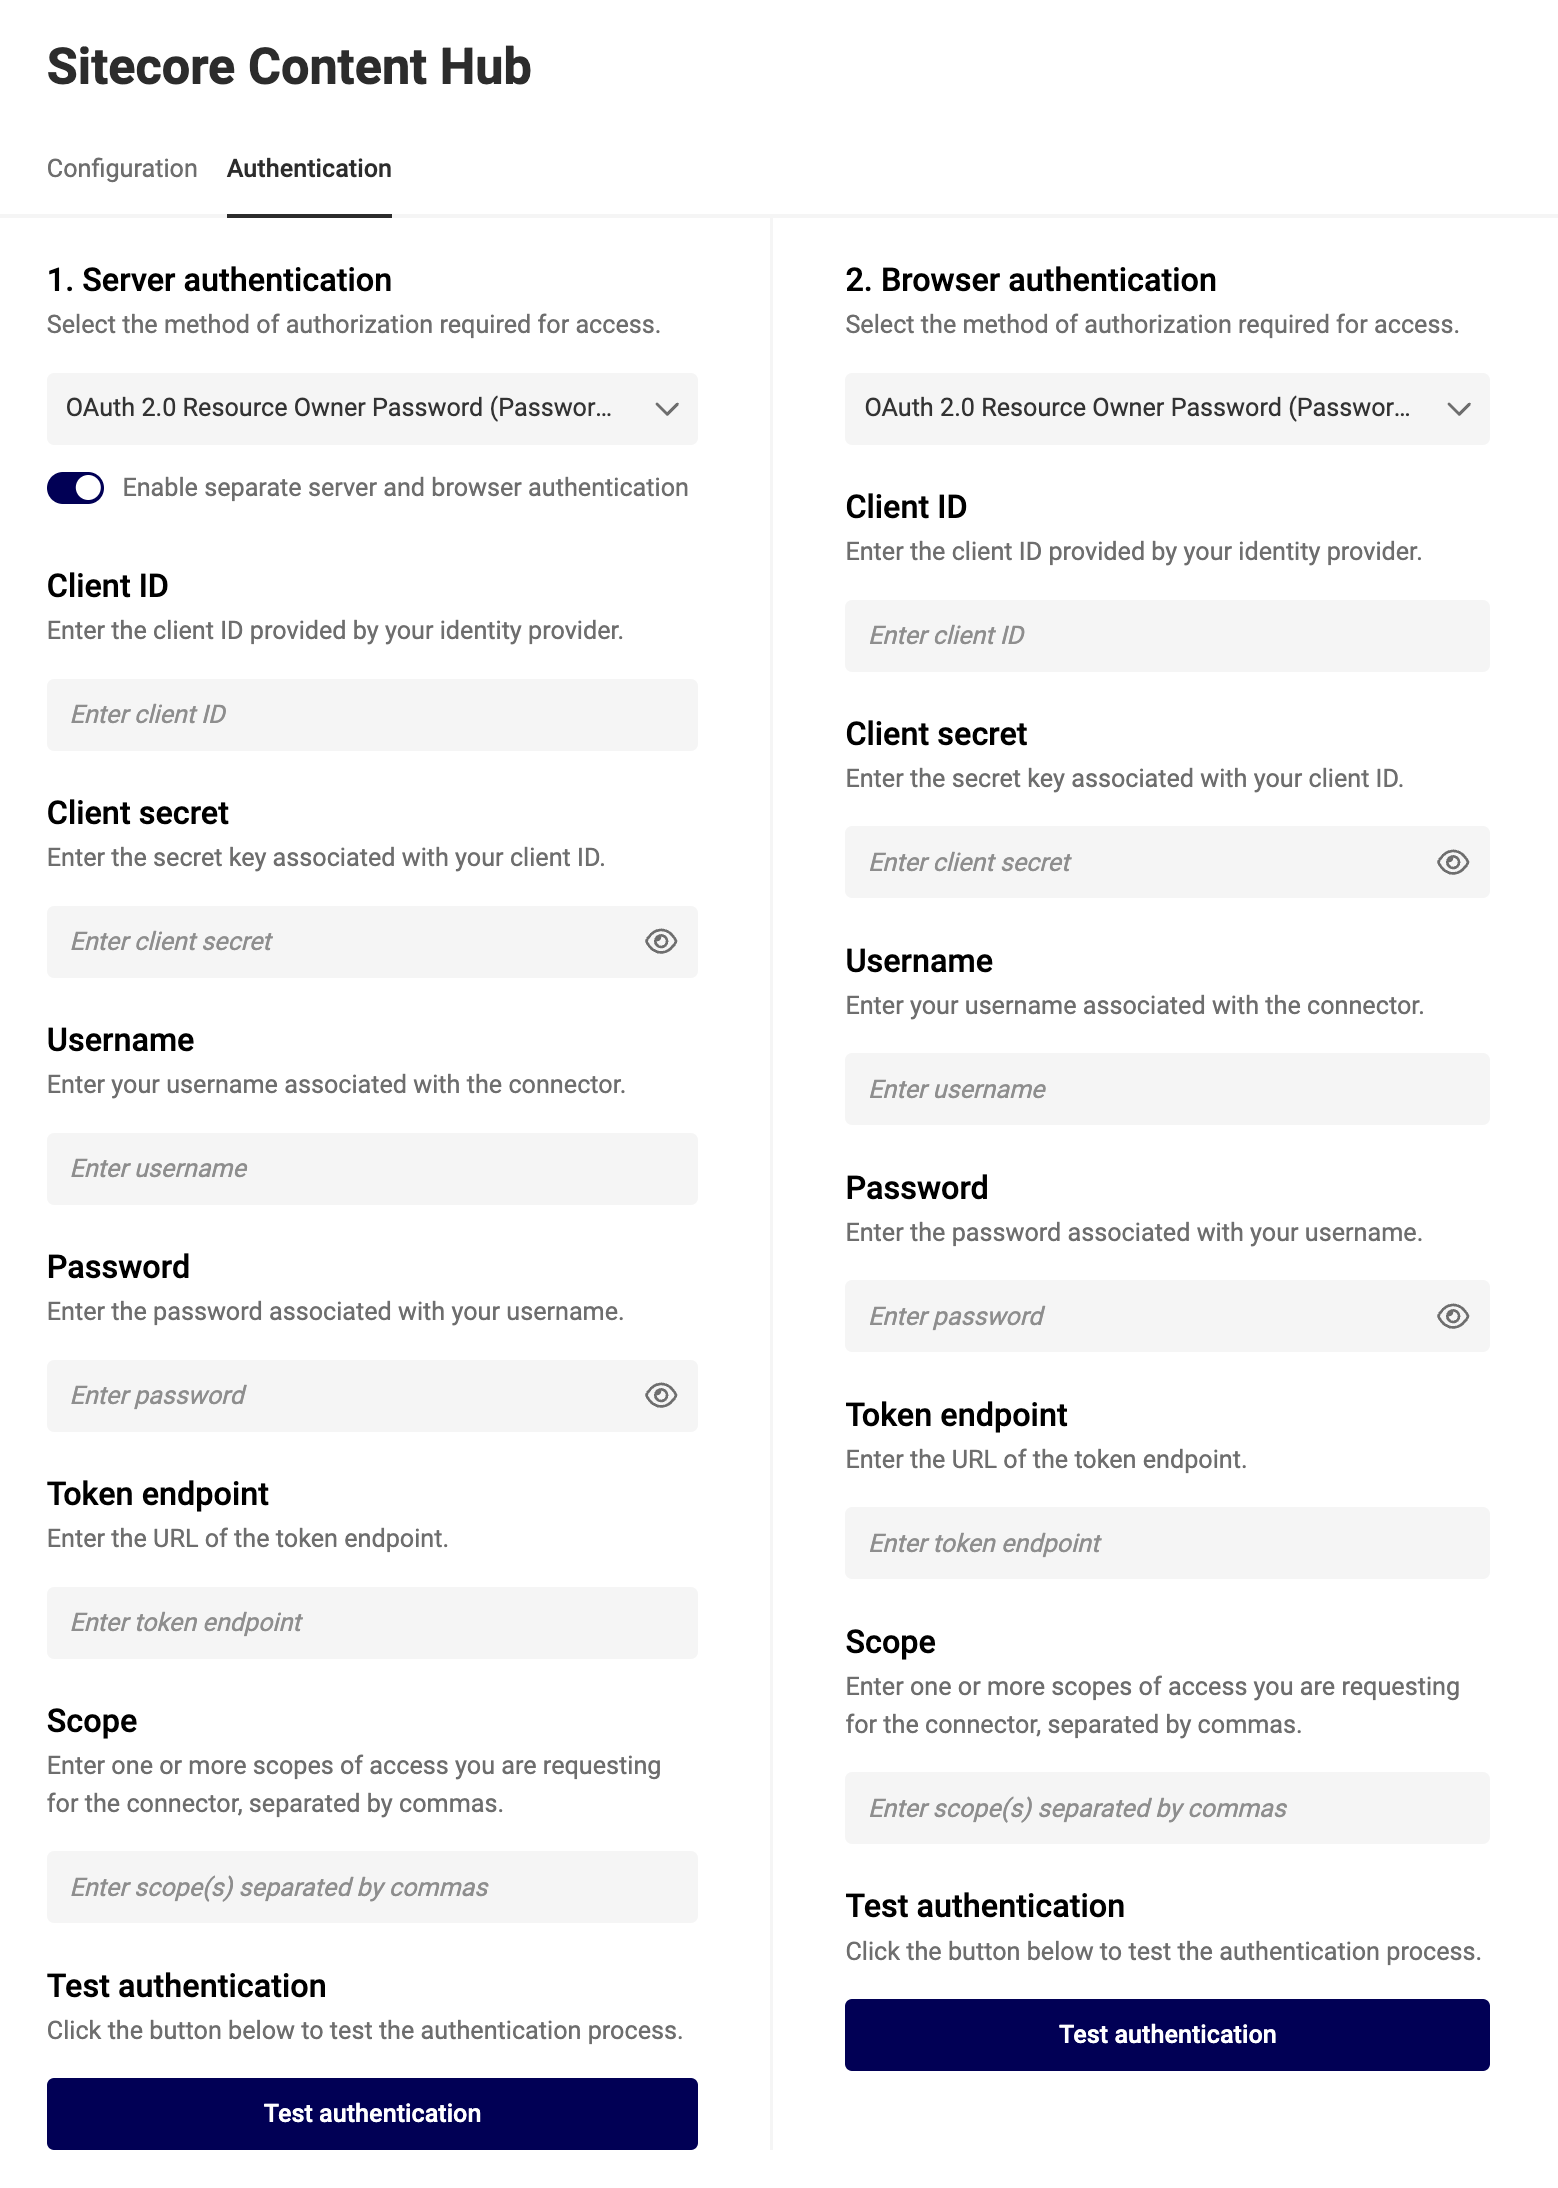
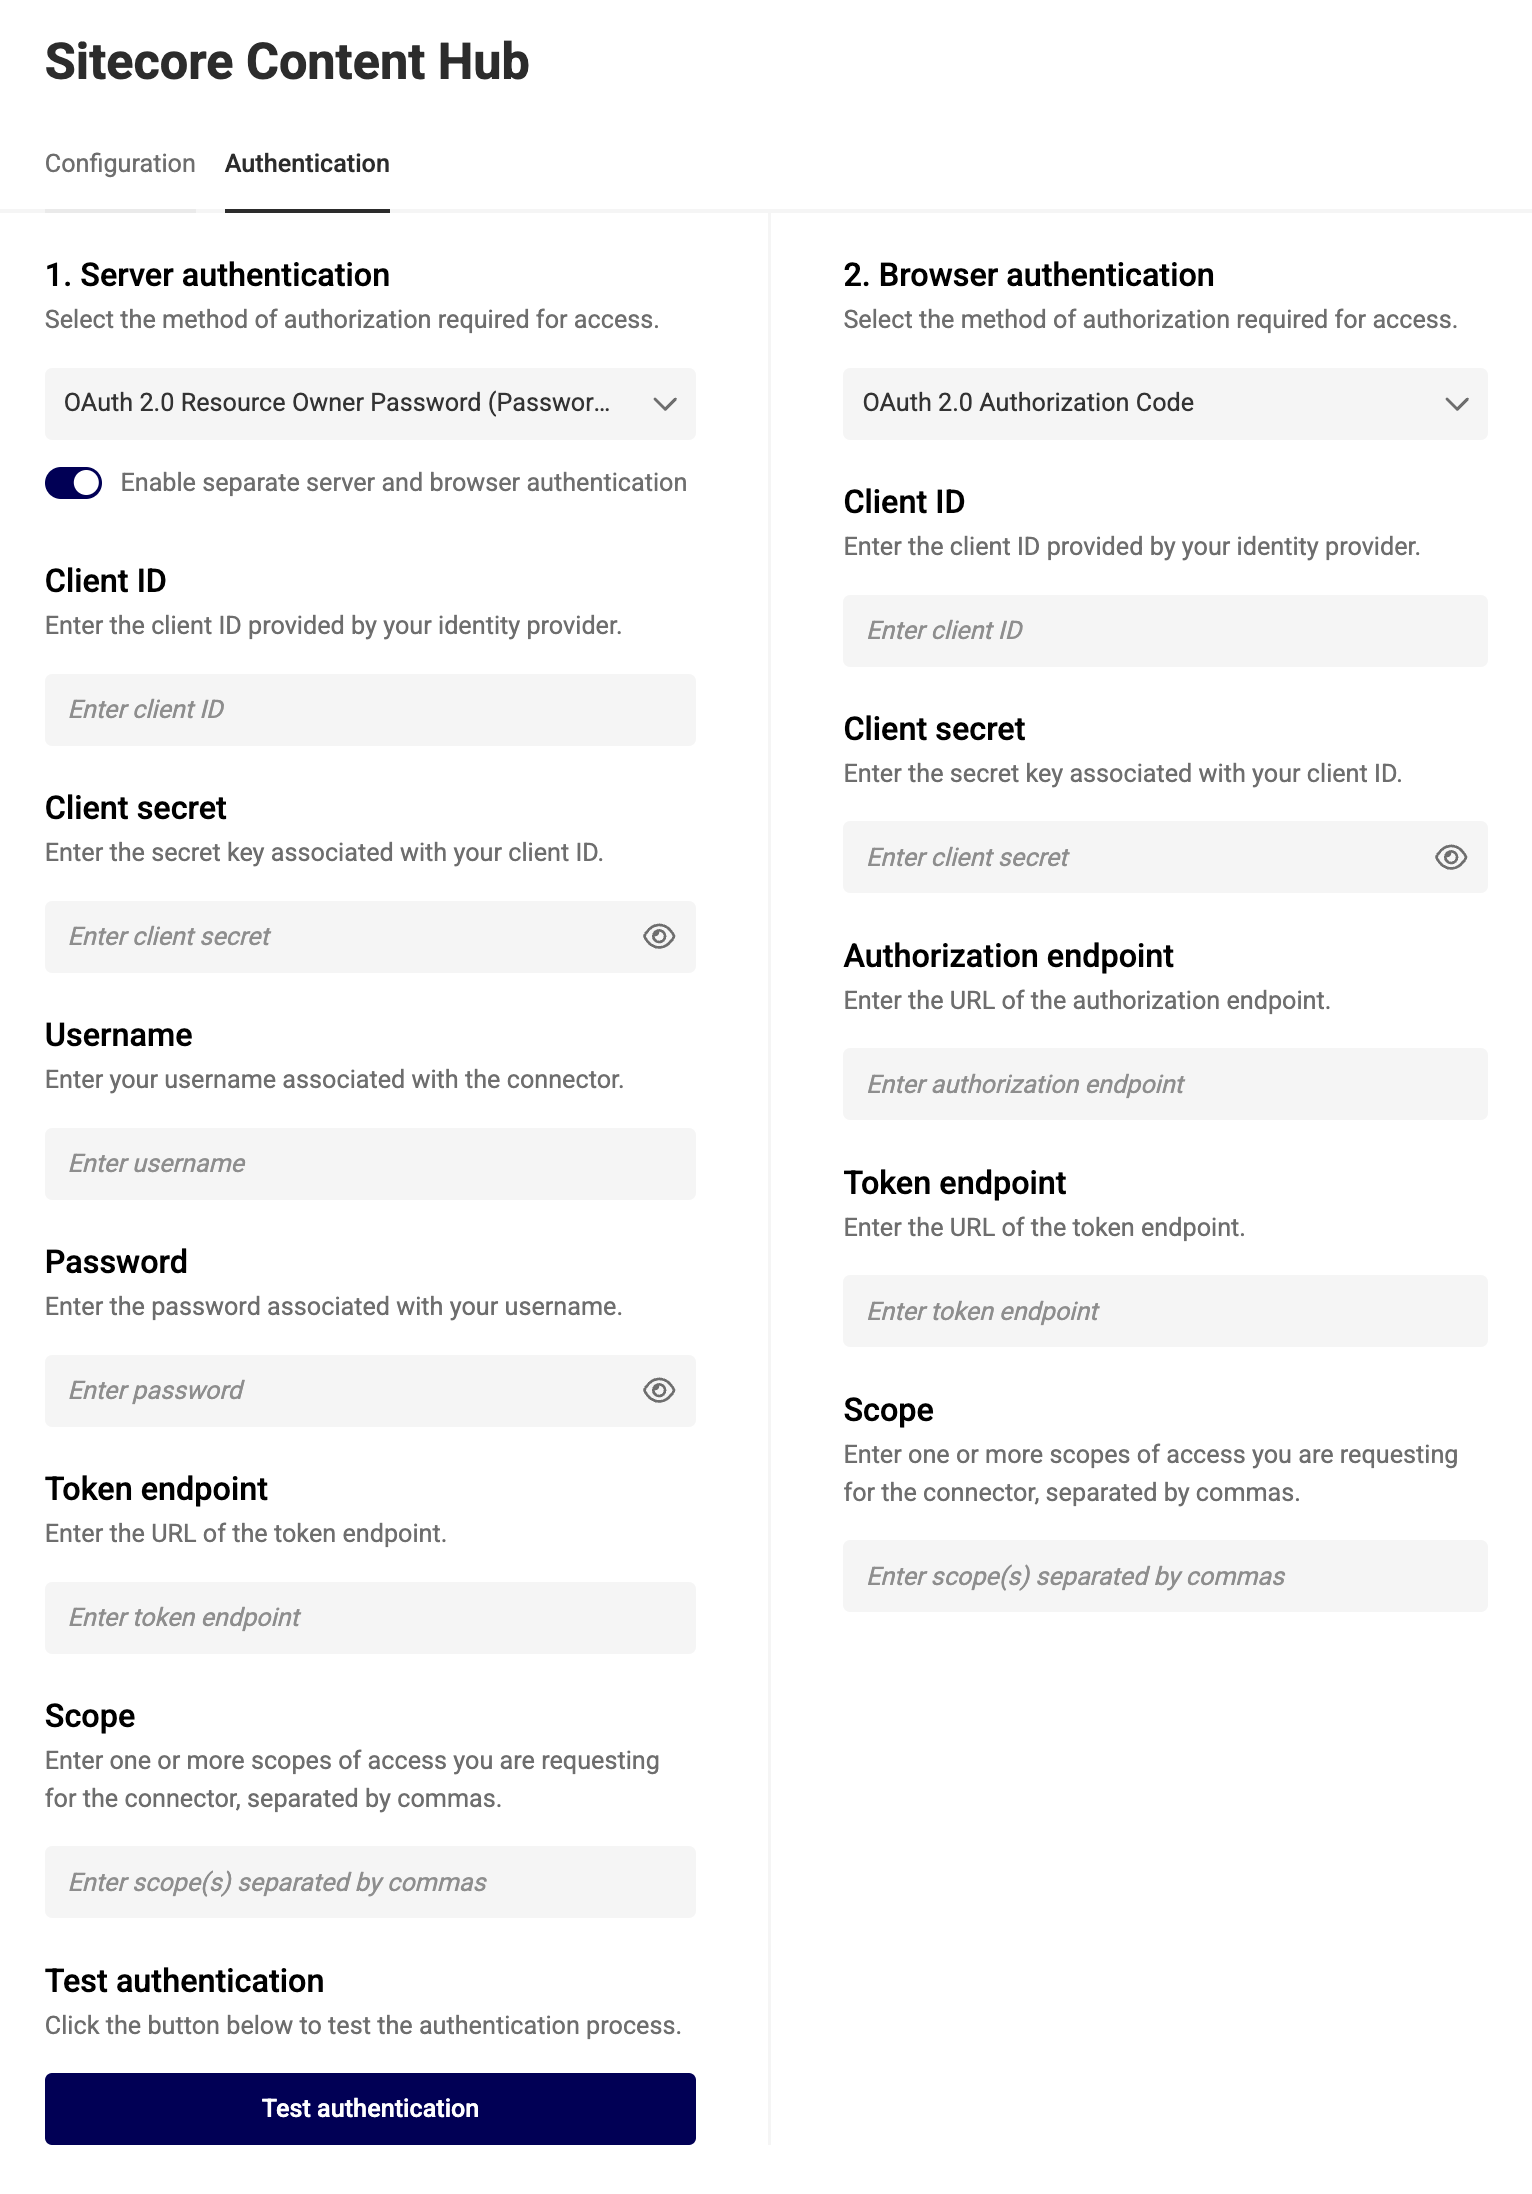
re-arrange and finalize

diff --git a/docs/GraFx-Studio/connectors/connector-sitecore-content-hub/index.md b/docs/GraFx-Studio/connectors/connector-sitecore-content-hub/index.md
@@ -10,29 +10,50 @@
 
 ## Installation
 
+As no "installation" happens, you could also talk about deployment of a connector on your environment.
+
 [See Installation Through Connector Hub](/GraFx-Studio/guides/connector-hub/)
 
-## Configuration
+## Sitecore Configuration 
+
+Consult your [Sitecore documentation](https://doc.sitecore.com/ch/en/users/content-hub/create-an-oauth-client.html) or Sitecore System Admin to obtain the correct values for the fields.
+
+- **OAuth admin console**
+``` html
+https://<SITECORE_CONTENTHUB_PATH>/en-us/admin/oauthclients
+```
+
+- **Redirect URL** (only used if grafx config is Authorization Code):
+``` html
+https://<env-name>.chili-publish.online/grafx/api/v1/environment/<env-name>/connectors/<connector-id>/auth/oauth-authorization-code/redirect
+```
+
+## CHILI GraFx Connector Configuration 
+
+From the overview of Environments, click on "Settings" on the right to your environment, where you want to install or configure the Connector.
+
+![screenshot-full](sch13.jpg)
+
+Then click the installed Connector to access the configuration.
+
+![screenshot-full](sch12.png)
 
 ### Base Configuration
 
 Your instance of the Connector needs to know which Sitecore Content Hub instance it should communicate with and how to authenticate.
 
-Once installed, navigate to the Connector overview and select **Sitecore Content Hub**. Start with **Configuration**.
-
-![screenshot-full](sch06.png)
-
 ![screenshot-full](sch01.png)
-
-Consult your Sitecore System Admin to obtain the correct values for the fields.
 
 ### Authentication
 
-Select your type of authentication. Currently, OAuth 2.0 Resource Owner Password and OAuth 2.0 Authorization Code (Browser only) are supported.
+Select your type of authentication:
+
+**Supported on Server:** OAuth 2.0 Resource Owner Password  
+This is the flow where username and password (contenthub credentials) are needed. It makes all requests as that specific user.
+
+**Supported on Browser:** OAuth 2.0 Authorization Code (Browser only)
 
 ![screenshot](sch02.png)
-
-You will need specific credentials from your Sitecore Content Hub installation to set up the connector:
 
 - **Client ID** and **Client Secret**: These are [customer-specific credentials](https://doc.sitecore.com/ch/en/users/content-hub/create-an-oauth-client.html) provided by the Sitecore Admin when creating integrations within Sitecore.
 - **Username** and **Password**: User-specific credentials for authentication.
@@ -43,10 +64,9 @@ You can configure separate authentication for machine-to-machine and browser use
 
 ![screenshot-full](sch04.png)
 
-- **Redirect URL** (only used if grafx config is Authorization Code):
-``` js
-/api/v1/environment/{environment}/connectors/{connectorId}/auth/oauth-authorization-code/redirect
-```
+- **Authorization Endpoint** https://<SITECORE_CONTENTHUB_PATH>/oauth/authorize
+- **Token Endpoint** https://{SITECORE_CONTENTHUB_PATH}/oauth/token
+
 
 Consult your Sitecore System Admin for assistance in configuring these fields.
 
@@ -55,6 +75,8 @@ Consult your Sitecore System Admin for assistance in configuring these fields.
 The credentials used for machine-to-machine authentication determine the governance on assets in automation workflows. 
 
 This means that if the credentials restrict access to specific assets, only those assets will be available during batch processing.
+
+
 
 ### Browser Authentication or Impersonation
 
